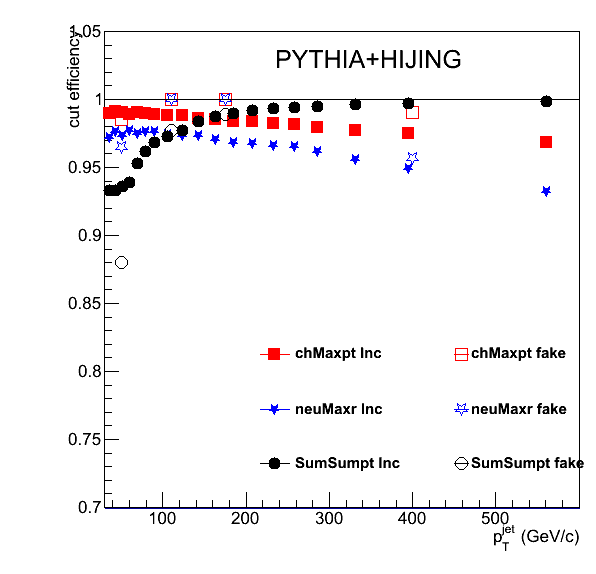
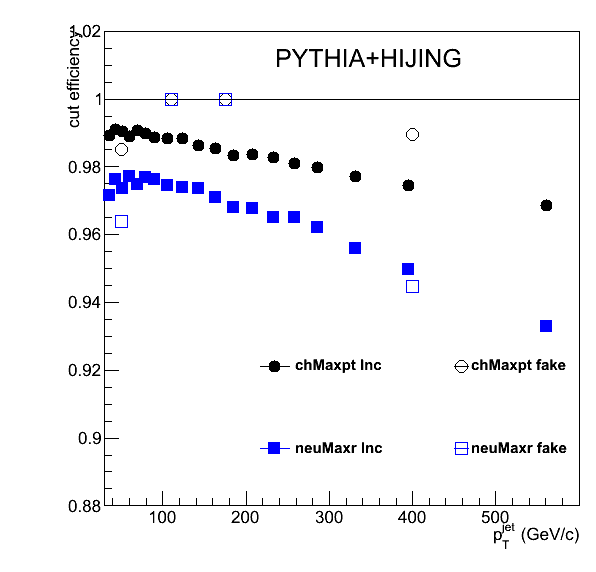
jet id

diff --git a/jetRpA/RpA/NewMC/JetID/DrawDiffID.C b/jetRpA/RpA/NewMC/JetID/DrawDiffID.C
@@ -108,11 +108,11 @@ TH1D* ratio_hPPb_JetIDcutvsnocut_pt_fake[N];
 TH1D* cl_rehisto_hPP_pt_fake[N];
 TH1D* cl_rehisto_hPPb_pt_fake[N];
 //int marker_inc[N]={21,22,29,34,33,20};
-int marker_inc[N]={21,29,20};
+int marker_inc[N]={20,21,20};
 //int color[N]={2,8,7,4,6,1};
-int color[N]={2,4,1};
+int color[N]={1,4,1};
 //int marker_fake[N]={25,26,30,28,27,24};
-int marker_fake[N]={25,30,24};
+int marker_fake[N]={24,25,24};
 
 //double binbound_pt[]={30,40,50,60,70,80,90,100,110,120,140,160,180,200,220,260,300,350,500};
 //const double binbound_pt[]={0,5,10,15,20,30,45,60,75,90,105,120,140,160,180,200,220,260,300,400,600,1000};
@@ -131,8 +131,8 @@ hFrame->SetTitle("");
 hFrame->GetXaxis()->SetTitle("p_{T}^{jet} (GeV/c)");
 hFrame->GetXaxis()->SetLabelFont(42);
 hFrame->GetYaxis()->SetTitle(Form("cut efficiency"));
-hFrame->SetMaximum(1.05);
-hFrame->SetMinimum(0.70);
+hFrame->SetMaximum(1.02);
+hFrame->SetMinimum(0.88);
 hFrame->DrawCopy();
 TLegend *leg1=new TLegend(0.36,0.13,0.67,0.43);
 TLegend *leg2=new TLegend(0.73,0.13,0.88,0.43);
@@ -200,7 +200,7 @@ l3->SetLineStyle(2);
 l3->SetLineColor(kBlack);
 l3->Draw("same");
 */
-for(int j=0;j<N;j++){
+for(int j=0;j<2;j++){
 ratio_hPPb_JetIDcutvsnocut_pt[j]=(TH1D*)rehisto_hPPb_JetIDcut_pt[j]->Clone(Form("ratio_hPPb_JetIDcut_ptcutvsnocut_pt_%d",j));
 ratio_hPPb_JetIDcutvsnocut_pt[j]->Divide(rehisto_hPPb_pt[j]);
 ratio_hPPb_JetIDcutvsnocut_pt[j]->SetTitle("");
